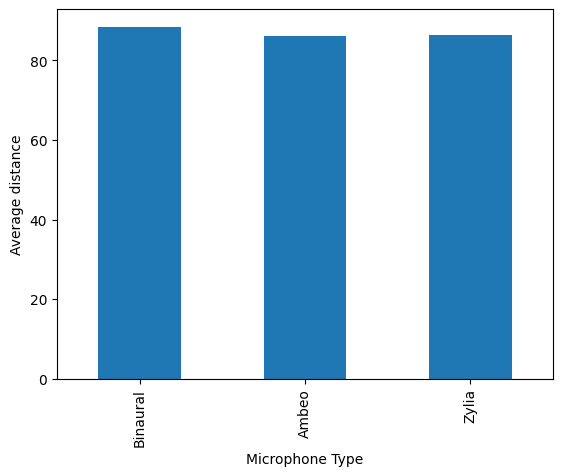
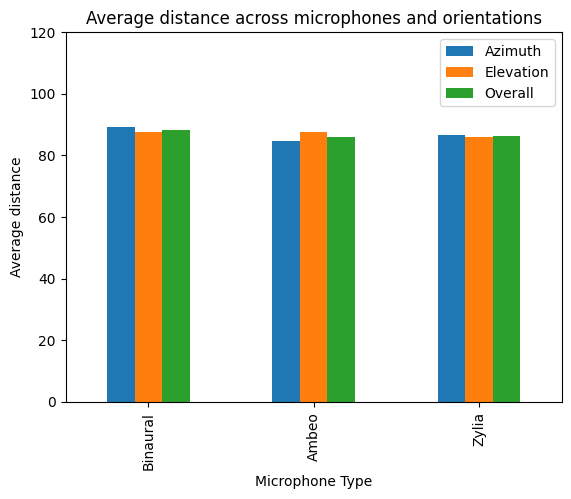
avg distances for each orientation

diff --git a/helpers/stats.py b/helpers/stats.py
@@ -1,0 +1,95 @@
+import matplotlib.pyplot as plt
+import numpy as np
+import pandas as pd
+
+from helpers.data_peparation import get_data_for_each_orientation_type
+from helpers.funs import get_percentage_of_mistakes_lower_than, print_stats
+from helpers.enums import Column
+
+
+def save_average_distance_statistics(binaural_df: pd.DataFrame, ambeo_df: pd.DataFrame, zylia_df: pd.DataFrame):
+    binaural_azimuth_df, binaural_elevation_df = get_data_for_each_orientation_type(binaural_df)
+    ambeo_azimuth_df, ambeo_elevation_df = get_data_for_each_orientation_type(ambeo_df)
+    zylia_azimuth_df, zylia_elevation_df = get_data_for_each_orientation_type(zylia_df)
+
+    binaural_average_distance = np.round(np.average(binaural_df[Column.DISTANCE].values), 2)
+    binaural_azimuth_average_distance = np.round(np.average(binaural_azimuth_df[Column.DISTANCE].values), 2)
+    binaural_elevation_average_distance = np.round(np.average(binaural_elevation_df[Column.DISTANCE].values), 2)
+
+    ambeo_average_distance = np.round(np.average(ambeo_df[Column.DISTANCE].values), 2)
+    ambeo_azimuth_average_distance = np.round(np.average(ambeo_azimuth_df[Column.DISTANCE].values), 2)
+    ambeo_elevation_average_distance = np.round(np.average(ambeo_elevation_df[Column.DISTANCE].values), 2)
+
+    zylia_average_distance = np.round(np.average(zylia_df[Column.DISTANCE].values), 2)
+    zylia_azimuth_average_distance = np.round(np.average(zylia_azimuth_df[Column.DISTANCE].values), 2)
+    zylia_elevation_average_distance = np.round(np.average(zylia_elevation_df[Column.DISTANCE].values), 2)
+
+    print_stats(
+        "Average distance across microphones and orientations",
+        [binaural_azimuth_average_distance, binaural_elevation_average_distance, binaural_average_distance],
+        [ambeo_azimuth_average_distance, ambeo_elevation_average_distance, ambeo_average_distance],
+        [zylia_azimuth_average_distance, zylia_elevation_average_distance, zylia_average_distance]
+    )
+
+    plotdata = pd.DataFrame({
+            "Azimuth": [
+                binaural_azimuth_average_distance,
+                ambeo_azimuth_average_distance,
+                zylia_azimuth_average_distance
+            ],
+            "Elevation": [
+                binaural_elevation_average_distance,
+                ambeo_elevation_average_distance,
+                zylia_elevation_average_distance
+            ],
+            "Overall": [
+                binaural_average_distance,
+                ambeo_average_distance,
+                zylia_average_distance
+            ],
+        },
+        index = ["Binaural", "Ambeo", "Zylia"]
+    )
+    
+    plotdata.plot(kind = "bar")
+    plt.title("Average distance across microphones and orientations")
+    plt.xlabel("Microphone Type")
+    plt.ylabel("Average distance")
+    plt.ylim([0, 120])
+    plt.savefig("./results/average_distances.png", bbox_inches="tight")
+
+
+def save_quantile_statistics(original_df: pd.DataFrame, binaural_df: pd.DataFrame, ambeo_df: pd.DataFrame, zylia_df: pd.DataFrame):
+    q1, q2, q3 = original_df[Column.DISTANCE].quantile([0.25, 0.50, 0.75])
+
+    binaural_q1 = get_percentage_of_mistakes_lower_than(binaural_df, q1)
+    binaural_q2 = get_percentage_of_mistakes_lower_than(binaural_df, q2)
+    binaural_q3 = get_percentage_of_mistakes_lower_than(binaural_df, q3)
+    ambeo_q1 = get_percentage_of_mistakes_lower_than(ambeo_df, q1)
+    ambeo_q2 = get_percentage_of_mistakes_lower_than(ambeo_df, q2)
+    ambeo_q3 = get_percentage_of_mistakes_lower_than(ambeo_df, q3)
+    zylia_q1 = get_percentage_of_mistakes_lower_than(zylia_df, q1)
+    zylia_q2 = get_percentage_of_mistakes_lower_than(zylia_df, q2)
+    zylia_q3 = get_percentage_of_mistakes_lower_than(zylia_df, q3)
+
+    print_stats(
+        "Percentage of mistakes lower than quantile",
+        [binaural_q1, binaural_q2, binaural_q3],
+        [ambeo_q1, ambeo_q2, ambeo_q3],
+        [zylia_q1, zylia_q2, zylia_q3]
+    )
+
+    plotdata = pd.DataFrame({
+            "Q1": [binaural_q1, ambeo_q1, zylia_q1],
+            "Q2": [binaural_q2, ambeo_q2, zylia_q2],
+            "Q3": [binaural_q3, ambeo_q3, zylia_q3] 
+        },
+        index = ["Binaural", "Ambeo", "Zylia"]
+    )
+
+    plotdata.plot(kind = "bar")
+    plt.title("Mistakes lower than quantile")
+    plt.xlabel("Microphone Type")
+    plt.ylabel("Percentage")
+    plt.ylim([0, 100])
+    plt.savefig("./results/quantiles_statistics.png", bbox_inches="tight")

diff --git a/helpers/data_peparation.py b/helpers/data_peparation.py
@@ -1,0 +1,43 @@
+import numpy as np
+import pandas as pd
+
+from typing import Tuple
+
+from helpers.enums import Column, MicrophoneType, OrientationType, SoundType
+
+
+def get_data_for_each_microphone_type(df: pd.DataFrame) -> Tuple[pd.DataFrame, pd.DataFrame, pd.DataFrame]:
+    return (
+        df.loc[df[Column.MICROPHONE] == MicrophoneType.BINAURAL],
+        df.loc[df[Column.MICROPHONE] == MicrophoneType.AMBEO],
+        df.loc[df[Column.MICROPHONE] == MicrophoneType.ZYLIA]
+    )
+
+
+def get_data_for_each_orientation_type(df: pd.DataFrame) -> Tuple[pd.DataFrame, pd.DataFrame]:
+    return (
+        df.loc[df[Column.ORIENTATION] == OrientationType.AZIMUTH],
+        df.loc[df[Column.ORIENTATION] == OrientationType.ELEVATION]
+    )
+
+
+def get_data_for_each_sound_type(df: pd.DataFrame) -> Tuple[pd.DataFrame, pd.DataFrame, pd.DataFrame, pd.DataFrame, pd.DataFrame]:
+    return (
+        df.loc[df[Column.SOUND] == SoundType.TRUMPET],
+        df.loc[df[Column.SOUND] == SoundType.DUCK],
+        df.loc[df[Column.SOUND] == SoundType.NOISE],
+        df.loc[df[Column.SOUND] == SoundType.ANGRY],
+        df.loc[df[Column.SOUND] == SoundType.SWEET],
+    )
+
+
+def add_distance_columns(df: pd.DataFrame):
+    df.loc[:, Column.DISTANCE_A] = np.abs(df[Column.ANGLE].values - df[Column.ANSWER].values)
+    df.loc[:, Column.DISTANCE_B] = 360 - np.abs(df[Column.ANGLE].values - df[Column.ANSWER].values)
+    df.loc[:, Column.DISTANCE] = np.minimum(df[Column.DISTANCE_A].values, df[Column.DISTANCE_B].values)
+
+
+def load_data(path: str) -> pd.DataFrame:
+    data = pd.read_csv(path, sep = ",").dropna()
+    add_distance_columns(data)
+    return data

diff --git a/helpers/enums.py b/helpers/enums.py
@@ -1,15 +1,26 @@
 from enum import Enum
 
-class MicrophoneTypeEnum(str, Enum):
+class Column(str, Enum):
+    MICROPHONE = "MICROPHONE"
+    ORIENTATION = "ORIENTATION"
+    SOUND = "SOUND"
+    ANGLE = "ANGLE"
+    ANSWER = "ANSWER"
+    PERSON = "PERSON"
+    DISTANCE = "DISTANCE"
+    DISTANCE_A = "DISTANCE_A"
+    DISTANCE_B = "DISTANCE_B"
+
+class MicrophoneType(str, Enum):
     BINAURAL = "BINAURAL"
     AMBEO = "AMBEO"
     ZYLIA = "ZYLIA"
 
-class OrientationTypeEnum(str, Enum):
+class OrientationType(str, Enum):
     AZIMUTH = "AZIMUTH"
     ELEVATION = "ELEVATION"
 
-class SoundTypeEnum(str, Enum):
+class SoundType(str, Enum):
     TRUMPET = "TRUMPET"
     DUCK = "DUCK"
     NOISE = "NOISE"

diff --git a/run.py b/run.py
@@ -1,0 +1,12 @@
+import helpers.data_peparation as preparation
+import helpers.stats as stats
+
+
+if __name__ == "__main__":
+    data = preparation.load_data("./data/wyniki_analiza.csv")
+
+    binaural_df, ambeo_df, zylia_df = preparation.get_data_for_each_microphone_type(data)
+
+    stats.save_average_distance_statistics(binaural_df, ambeo_df, zylia_df)
+
+    stats.save_quantile_statistics(data, binaural_df, ambeo_df, zylia_df)

diff --git a/helpers/funs.py b/helpers/funs.py
@@ -1,0 +1,12 @@
+import numpy as np
+import pandas as pd
+
+def get_percentage_of_mistakes_lower_than(df: pd.DataFrame, value):
+    return np.round((df["DISTANCE"] < value).sum() * 100 / df.shape[0], 2)
+
+def print_stats(title, binaural_stats, ambeo_stats, zylia_stats):
+    print(f"\
+        {title}\n\
+        BINAURAL: {binaural_stats}\n\
+        AMBEO: {ambeo_stats}\n\
+        ZYLIA: {zylia_stats}\n")
